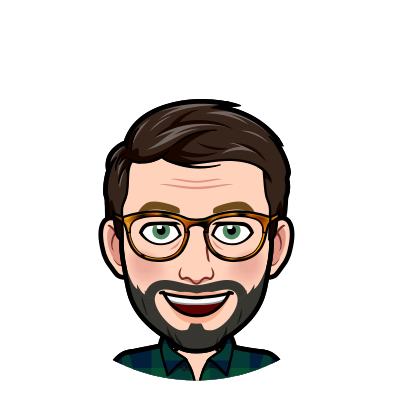
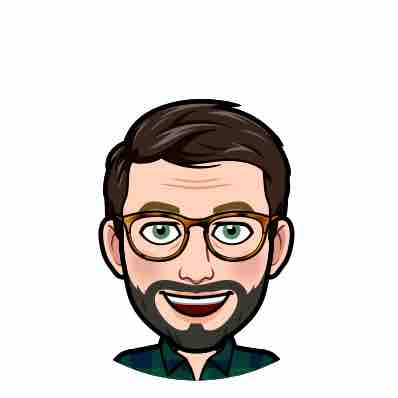
update

diff --git a/src/views/Components/Sections/SectionPortfolio.js b/src/views/Components/Sections/SectionPortfolio.js
@@ -7,20 +7,20 @@ import { makeStyles } from "@material-ui/core/styles";
 import GridContainer from "components/Grid/GridContainer.js";
 import GridItem from "components/Grid/GridItem.js";
 import Button from "components/CustomButtons/Button.js";
-import DayPlanner from "assets/img/DayPlanner.png";
-import GoodWork from "assets/img/goodwork.png";
-import GeneratorProfile from "assets/img/Dev Profile Generator.png";
-import Supermarket from "assets/img/Supermarket.png";
-import CodeQuiz from "assets/img/CodeQuiz.png";
-import WordGuessGame from "assets/img/WordGuessGame.png";
-import SearchAPI from "assets/img/Search API Worked.png";
-import EmployeeTracker from "assets/img/EmployeeTracker.png";
-import NodeExpress from "assets/img/NodeExpress.png";
-import NoteTaker from "assets/img/NoteTaker.png";
-import TemplateEngine from "assets/img/TemplateEngine.png";
-import WorkoutTracker from "assets/img/WorkoutTracker.png";
-import LastMinuteTrip from "assets/img/LastMinuteTrip.png";
-import UnderConstructor from "assets/img/UnderConstruction.png";
+import DayPlanner from "assets/img/DayPlanner.jpg";
+import GoodWork from "assets/img/goodwork.jpg";
+import GeneratorProfile from "assets/img/DevProfileGenerator.jpg";
+import Supermarket from "assets/img/Supermarket.jpg";
+import CodeQuiz from "assets/img/CodeQuiz.jpg";
+import WordGuessGame from "assets/img/WordGuessGame.jpg";
+import SearchAPI from "assets/img/SearchAPIWorked.jpg";
+import EmployeeTracker from "assets/img/EmployeeTracker.jpg";
+import NodeExpress from "assets/img/NodeExpress.jpg";
+import NoteTaker from "assets/img/NoteTaker.jpg";
+import TemplateEngine from "assets/img/TemplateEngine.jpg";
+import WorkoutTracker from "assets/img/WorkoutTracker.jpg";
+import LastMinuteTrip from "assets/img/LastMinuteTrip.jpg";
+import UnderConstructor from "assets/img/UnderConstruction.jpg";
 import styles from "assets/jss/material-kit-react/views/componentsSections/exampleStyle.js";
 
 
